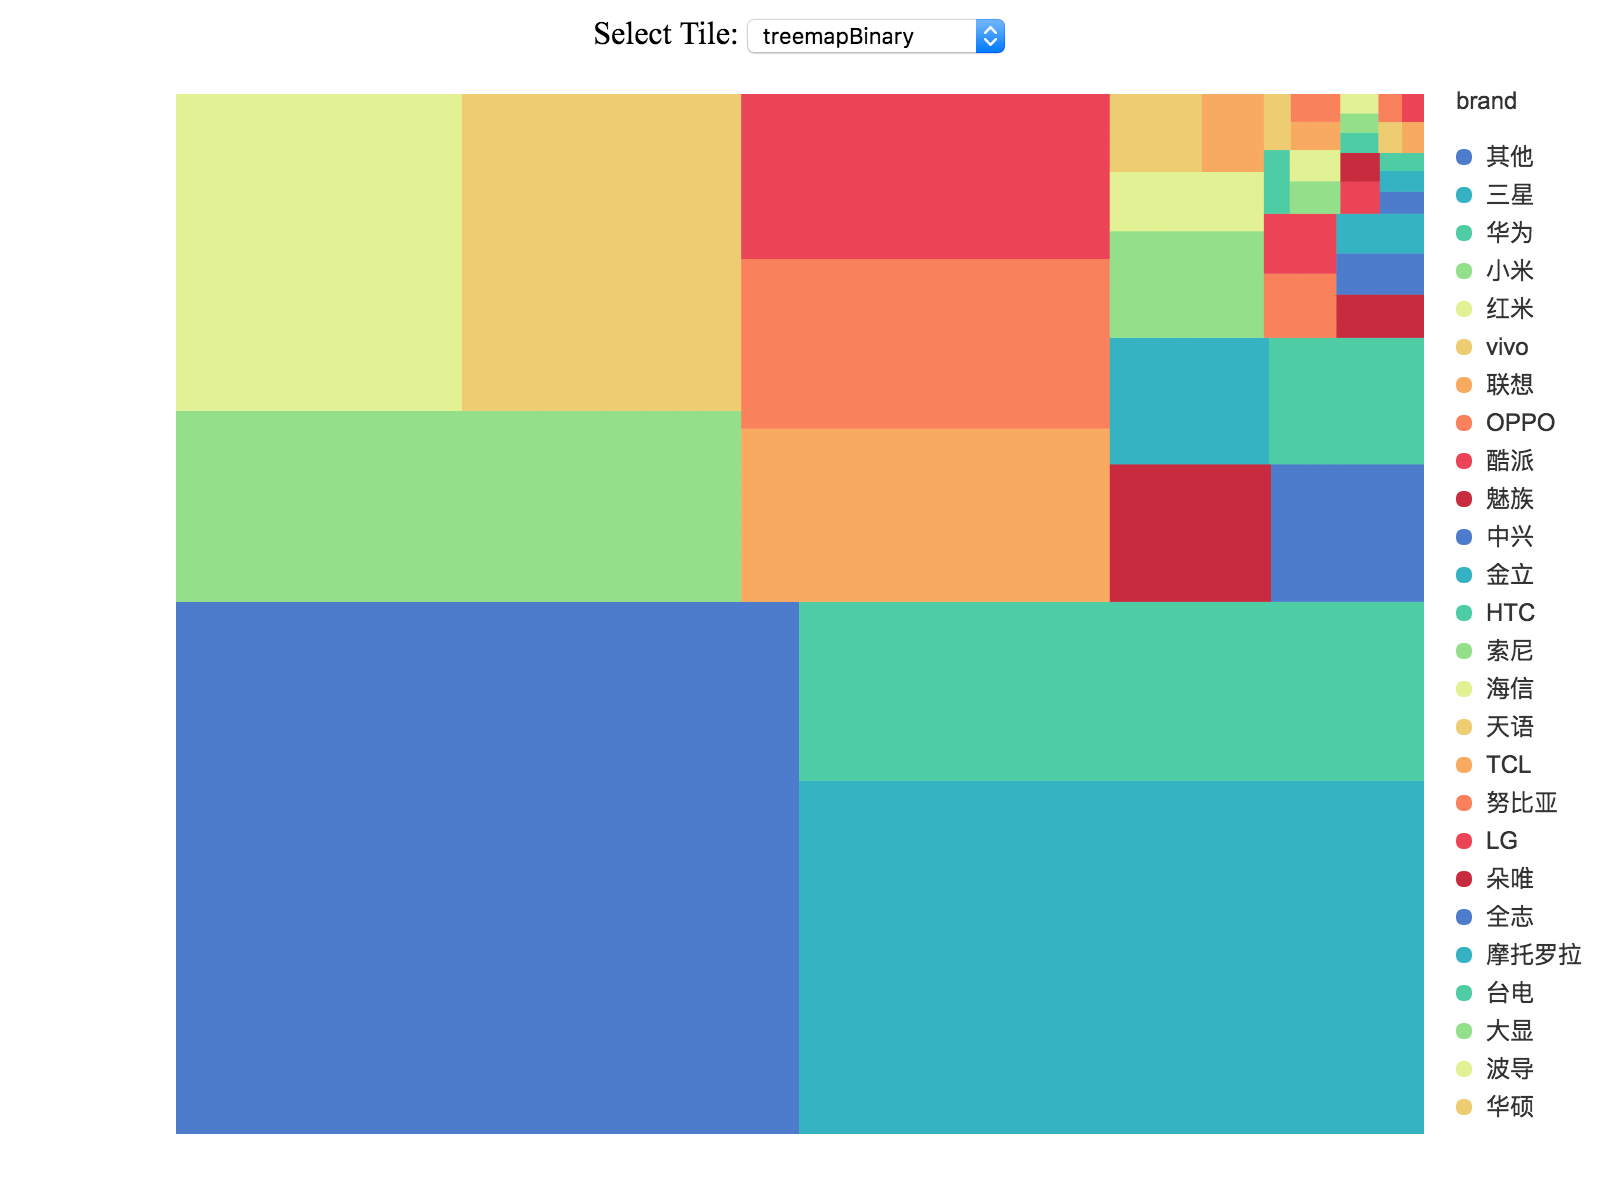
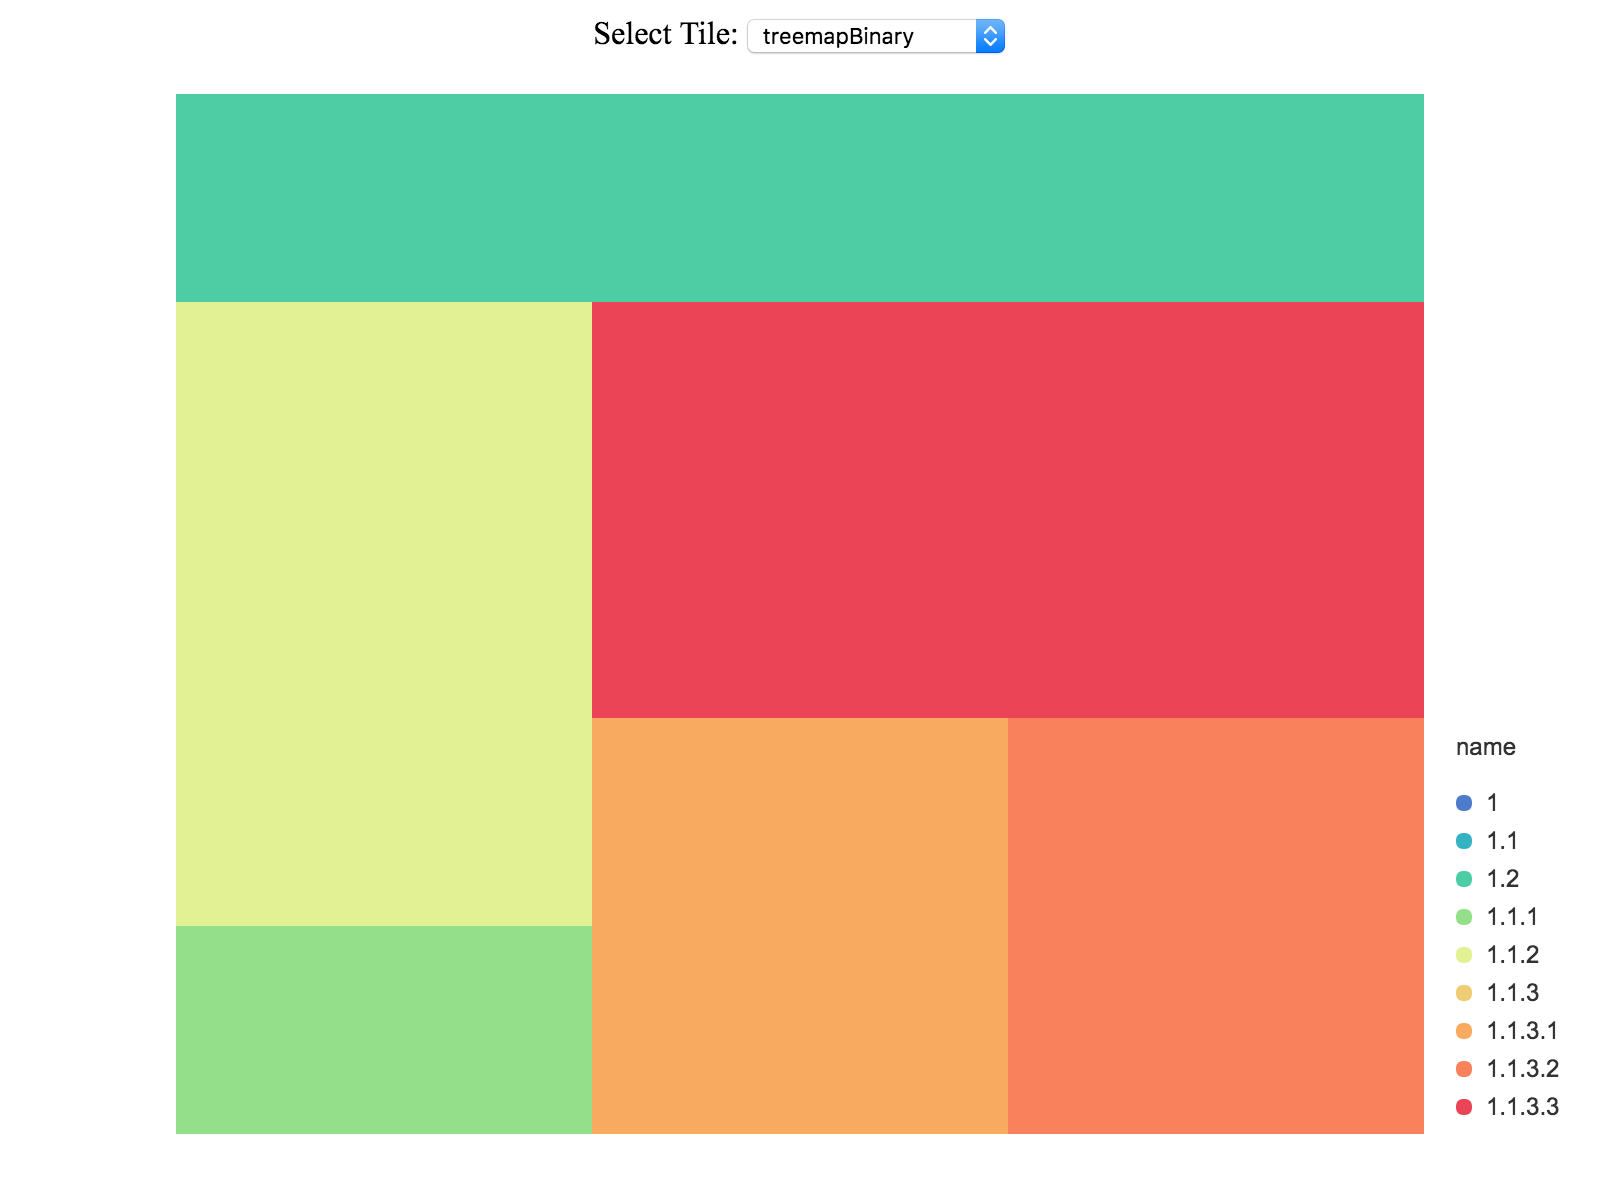
change treemap demo data

diff --git a/demos/treemap-tiles.html b/demos/treemap-tiles.html
@@ -13,12 +13,12 @@
   <div class="toolbar" style="text-align: center;">
     <label for="tile">Select Tile: </label>
     <select name="tile" id="tile">
-      <option value="treemapBinary" selected>treemapBinary</option>
+      <option value="treemapBinary">treemapBinary</option>
       <option value="treemapDice">treemapDice</option>
+      <option value="treemapResquarify">treemapResquarify</option>
       <option value="treemapSlice">treemapSlice</option>
       <option value="treemapSliceDice">treemapSliceDice</option>
       <option value="treemapSquarify">treemapSquarify</option>
-      <option value="treemapResquarify">treemapResquarify</option>
     </select>
   </div>
   <div id="canvas"></div>
@@ -27,70 +27,94 @@
   <script src="./assets/data-set-0.1.1.min.js"></script>
   <script src="../build/g2.js"></script>
   <script>
-    $.getJSON('./data/mobile.json', data => {
-      const $tile = $('#tile');
-
-      // process data
-      for (let i = 0; i < data.length; i++) {
-        const node = data[i];
-        if (node.children) {
-          for (let j = 0; j < node.children.length; j++) {
-            node.children[j].brand = node.brand;
-          }
+    const data = {
+      name: '1',
+      children: [
+        {
+          name: '1.1',
+          children: [
+            {
+              name: '1.1.1',
+              size: 100
+            },
+            {
+              name: '1.1.2',
+              size: 300
+            },
+            {
+              name: '1.1.3',
+              children: [
+                {
+                  name: '1.1.3.1',
+                  size: 200
+                },
+                {
+                  name: '1.1.3.2',
+                  size: 200
+                },
+                {
+                  name: '1.1.3.3',
+                  size: 400
+                }
+              ]
+            }
+          ]
+        },
+        {
+          name: '1.2',
+          size: 300
         }
-      }
-      const phones = { // root
-        children: data
-      };
+      ]
+    };
 
-      const ds = new DataSet();
-      ds.state.treemapTile = $tile.val();
-      const dv = ds.createView('dv').source(phones, {
-        type: 'hierarchy'
-      });
-      dv.transform({
-        type: 'hierarchy.treemap',
-        tile: '$state.treemapTile',
-        as: [ 'x', 'y' ]
-      });
+    const $tile = $('#tile');
 
-      const chart = new G2.Chart({
-        container: 'canvas',
-        forceFit: true,
-        height: window.innerHeight,
-        plotCfg: {
-          margin: 0
-        }
-      });
-
-      function rerender() {
-        chart.clear();
-        chart.source(
-          _.filter(
-            _.map(dv.getAllNodes(), node => {
-              node.name = node.data.name;
-              node.brand = node.data.brand;
-              return node;
-            }),
-            node => !!node.brand
-          )
-        );
-        chart.axis(false);
-        chart.legend(false);
-        chart.polygon()
-          .position('x*y')
-          .color('brand')
-          .label('brand');
-        chart.render();
-      }
-
-      ds.on('statechange', rerender);
-      $tile.on('change', () => {
-        ds.setState('treemapTile', $tile.val());
-      });
-
-      rerender();
+    const ds = new DataSet();
+    ds.state.treemapTile = $tile.val();
+    const dv = ds.createView('dv').source(data, {
+      type: 'hierarchy'
     });
+    dv.transform({
+      field: 'size',
+      type: 'hierarchy.treemap',
+      tile: '$state.treemapTile',
+      padding: 16,
+      as: [ 'x', 'y' ]
+    });
+
+    const chart = new G2.Chart({
+      container: 'canvas',
+      forceFit: true,
+      height: window.innerHeight,
+      plotCfg: {
+        margin: 0
+      }
+    });
+
+    function rerender() {
+      chart.clear();
+      chart.source(
+        _.map(dv.getAllNodes(), node => {
+          node.name = node.data.name;
+          node.size = node.data.size;
+          return node;
+        })
+      );
+      chart.axis(false);
+      chart.legend(false);
+      chart.polygon()
+        .position('x*y')
+        .color('name')
+        .label('name');
+      chart.render();
+    }
+
+    ds.on('statechange', rerender);
+    $tile.on('change', () => {
+      ds.setState('treemapTile', $tile.val());
+    });
+
+    rerender();
   </script>
 </body>
 
